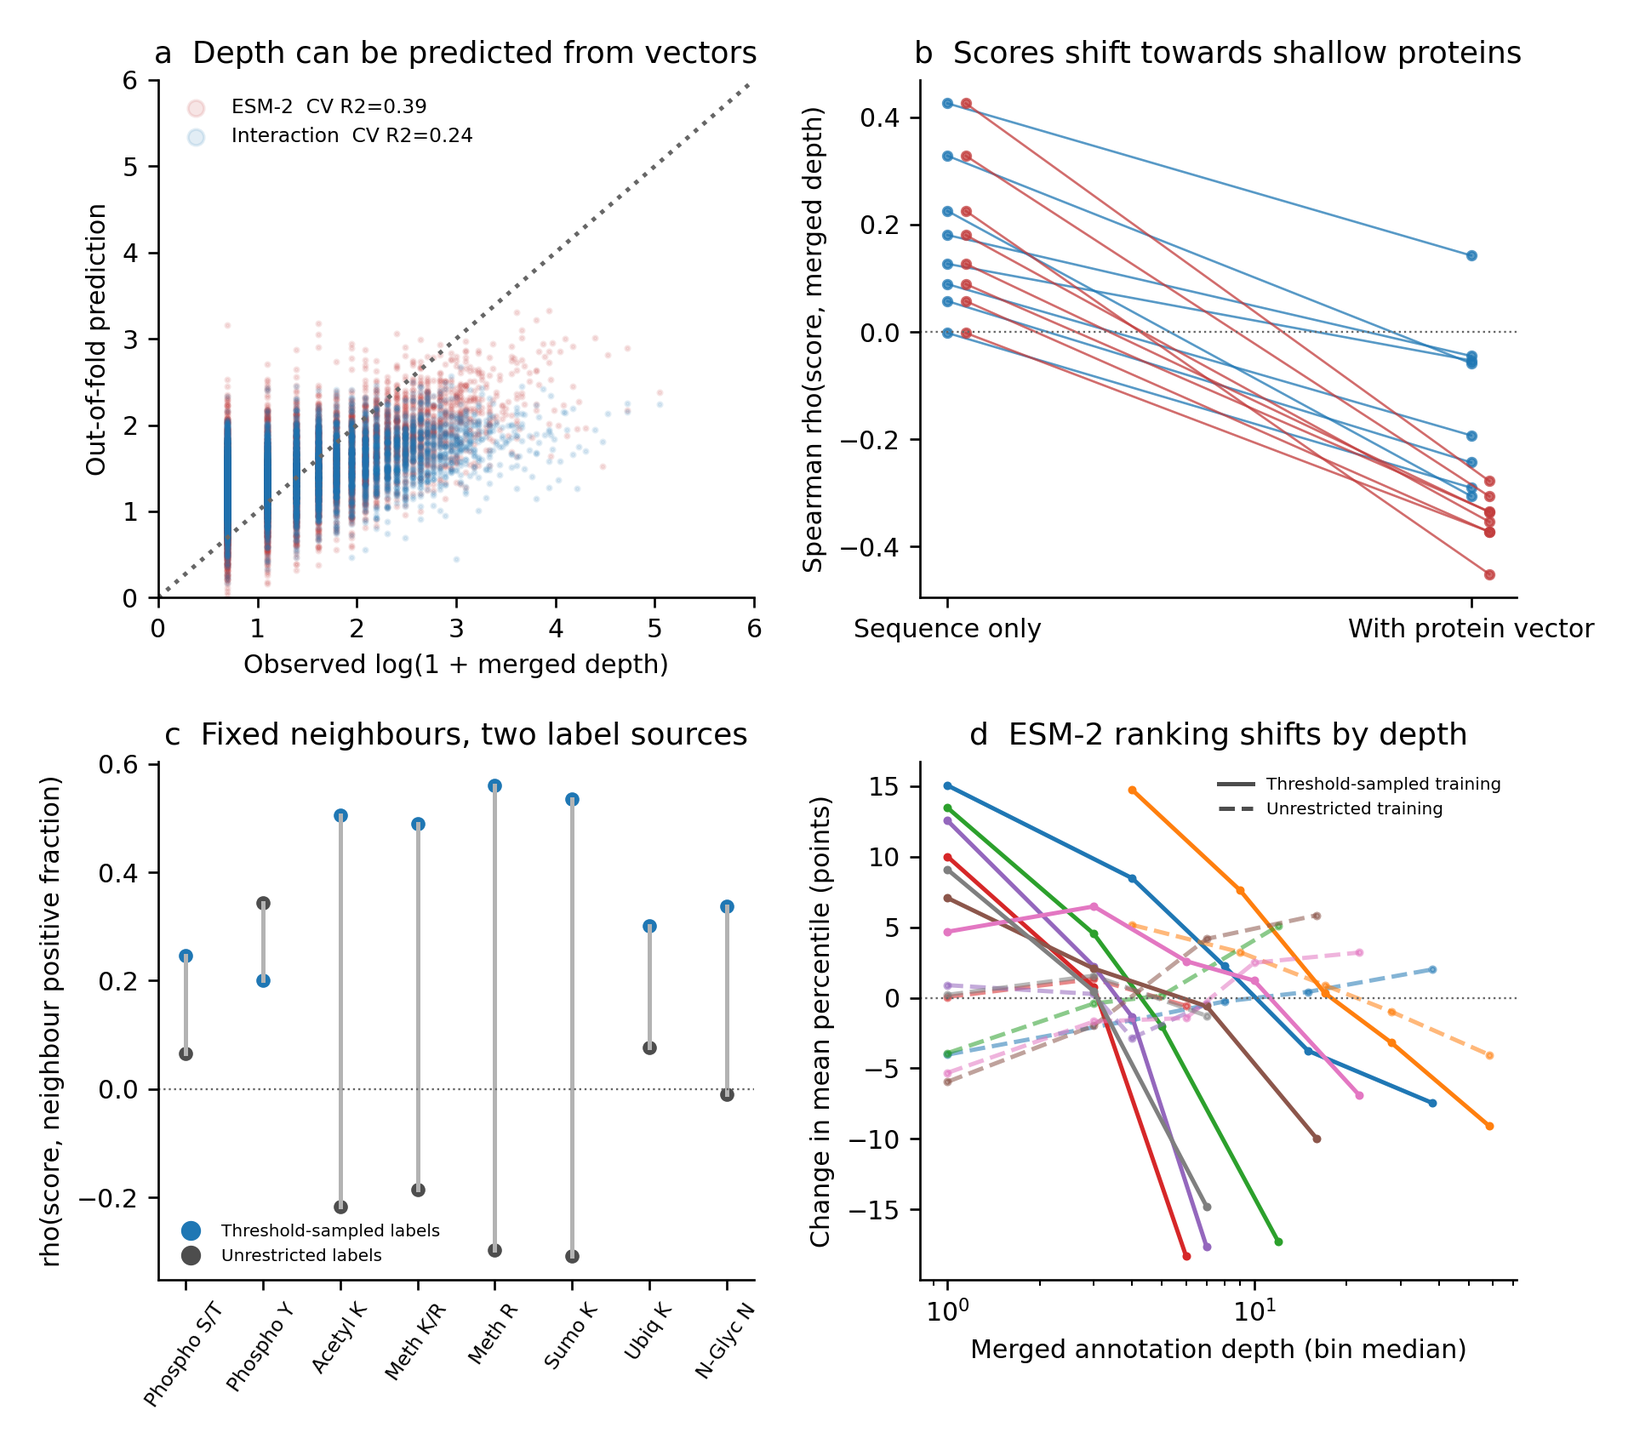
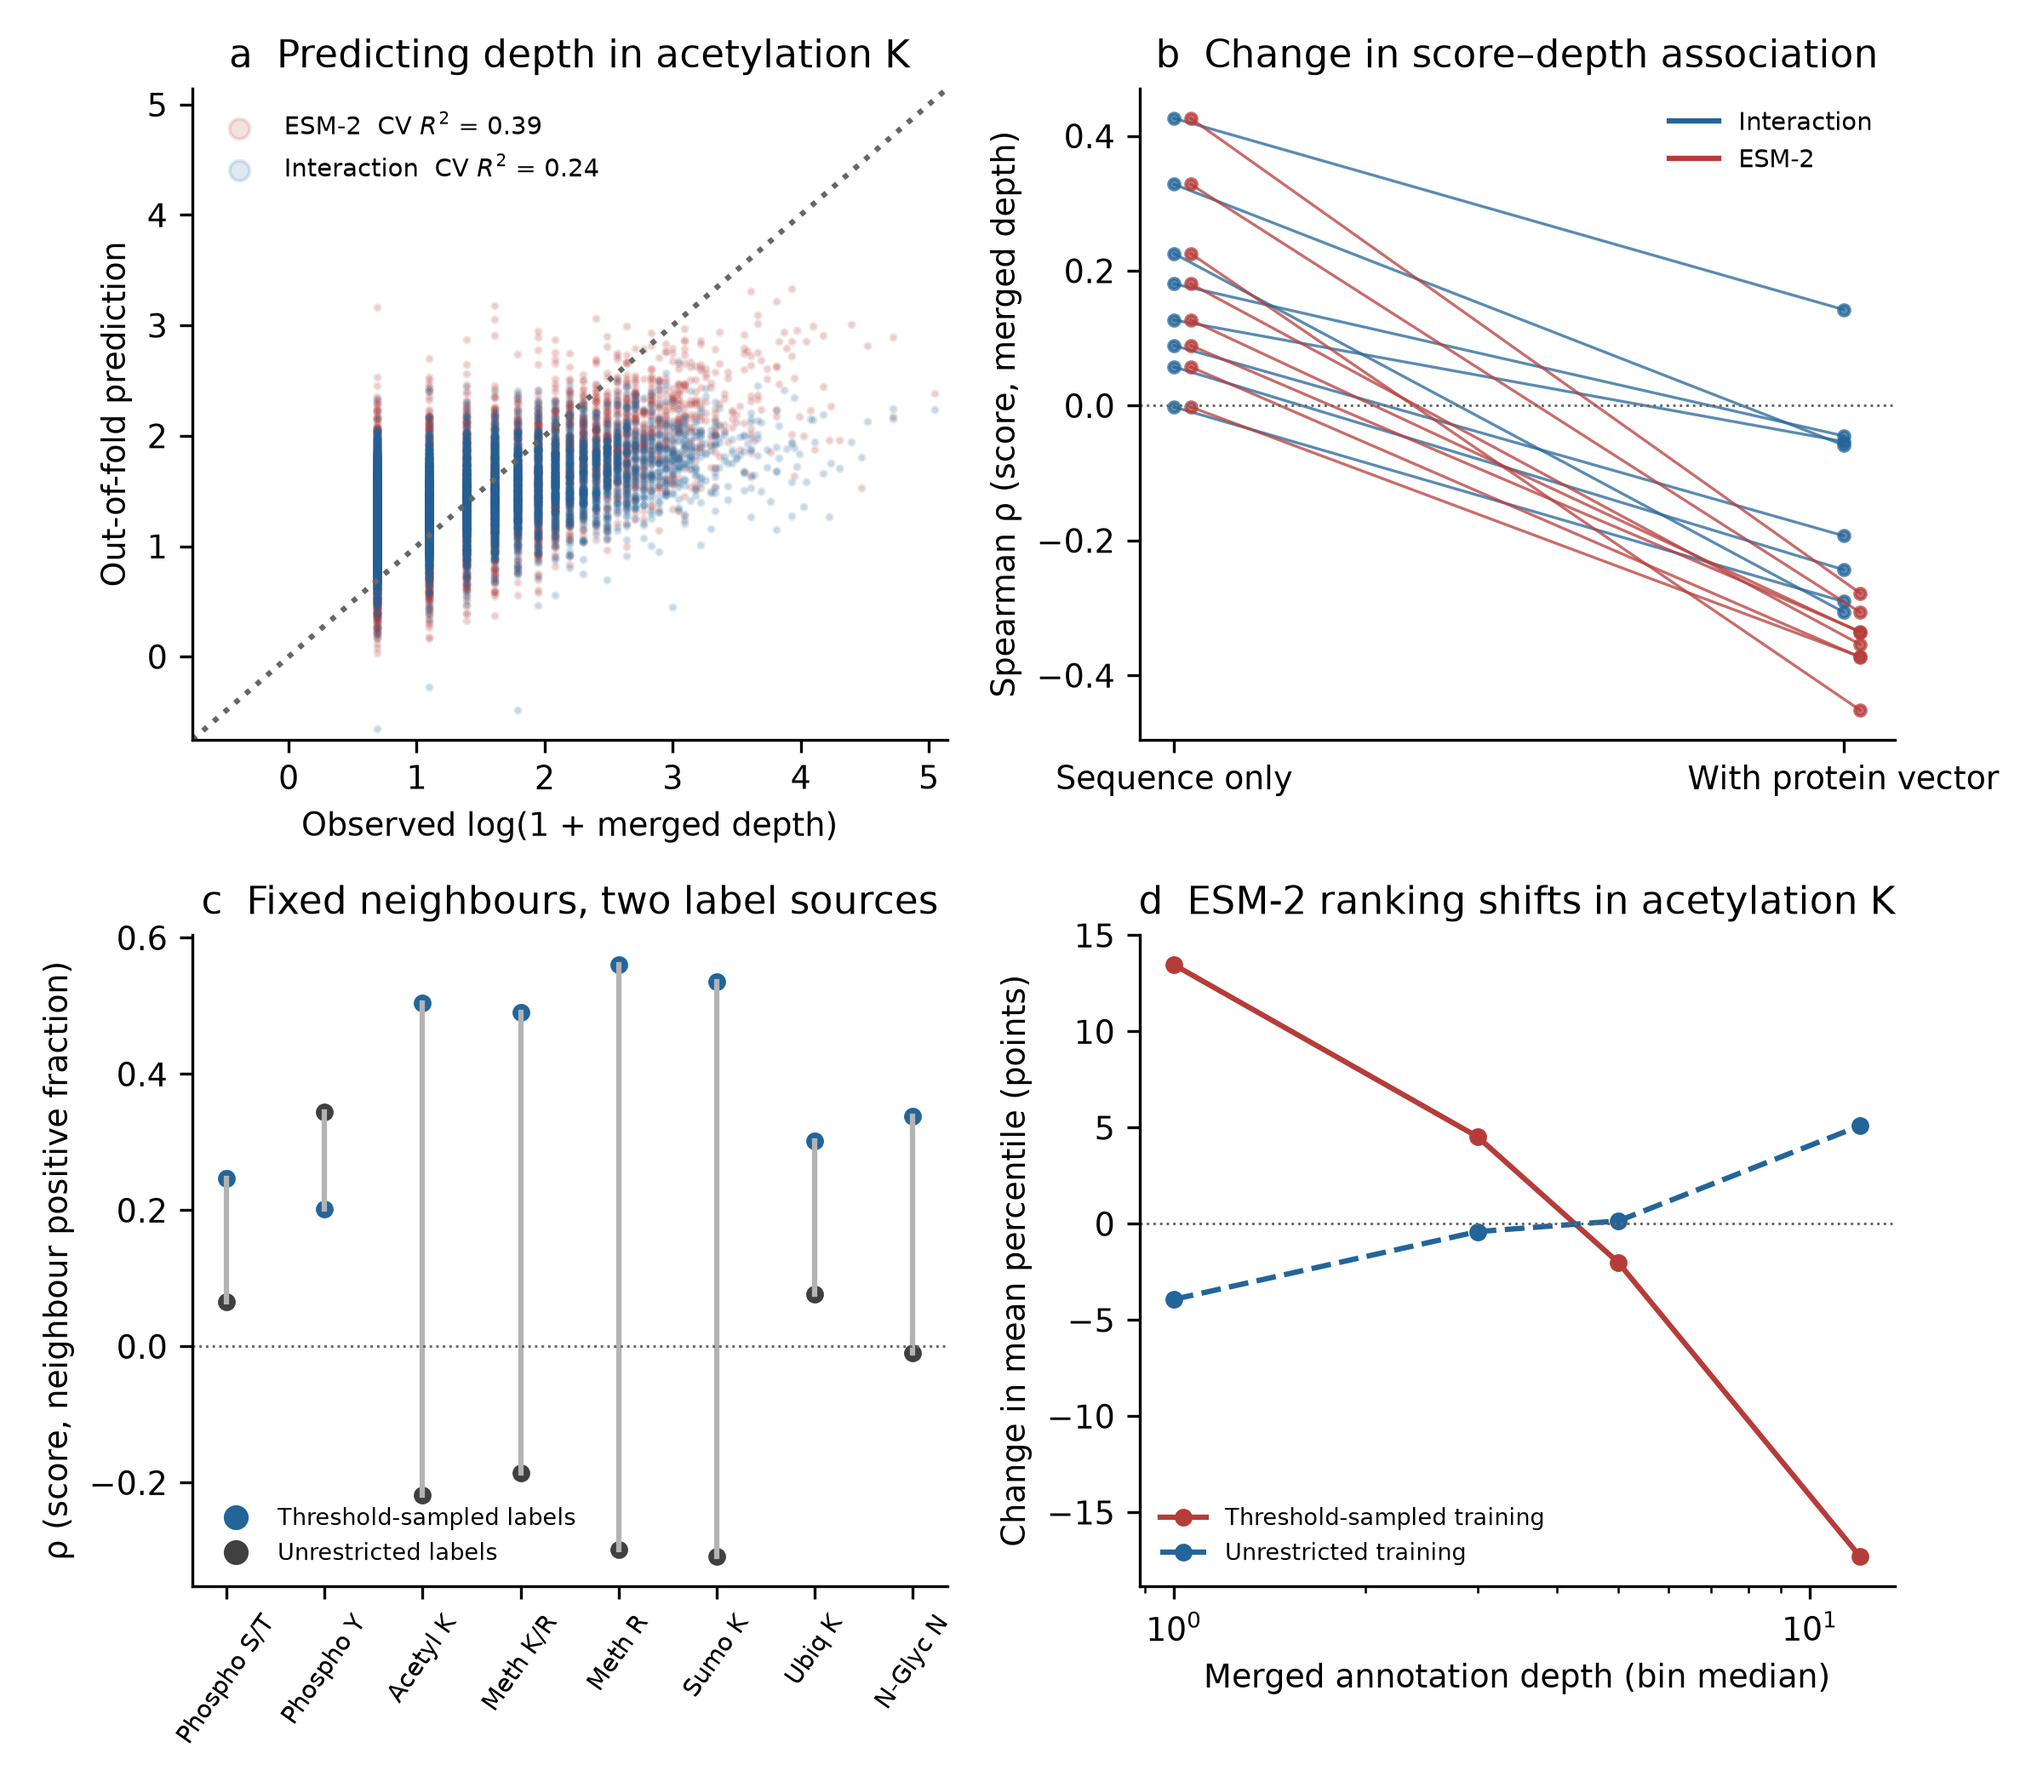
Add plot_corrected.py and the manuscript versions of Figure 2 and S4
plot_corrected.py redrew Figure 2 and Supplementary Figure S4 for the
manuscript from tables written by section3_corrected.py. The two PNGs in
results/section3_20260920/ are replaced by those redrawn versions, which are
the ones in the manuscript; the earlier renderings remain in 13b1817. The
script is committed as run; README notes the paths it assumes.

diff --git a/analysis/plot_corrected.py b/analysis/plot_corrected.py
@@ -1,0 +1,75 @@
+from pathlib import Path
+import sys
+sys.path.insert(0,str(Path(__file__).resolve().parents[1]/'render_deps'))
+import numpy as np
+import pandas as pd
+import matplotlib
+matplotlib.use('Agg')
+import matplotlib.pyplot as plt
+from matplotlib.lines import Line2D
+
+P=Path(__file__).resolve().parents[1]/'results'
+TASKS=['phosphorylation_st','phosphorylation_y','acetylation_k','methylation_k','methylation_r','sumoylation_k','ubiquitination_k','glycosylation_n']
+SHORT=['Phospho S/T','Phospho Y','Acetyl K','Meth K/R','Meth R','Sumo K','Ubiq K','N-Glyc N']
+colors={'ppi':'#23659a','esm':'#b63c39'}
+labels={'ppi':'Interaction','esm':'ESM-2'}
+plt.rcParams.update({'font.size':9,'axes.spines.top':False,'axes.spines.right':False,'savefig.facecolor':'white'})
+fig,axes=plt.subplots(2,2,figsize=(8,7.0))
+ridge=pd.read_csv(P/'ridge_acetylation_oof.tsv',sep='\t')
+rr=pd.read_csv(P/'ridge_summary.tsv',sep='\t')
+for fam,g in ridge.groupby('family'):
+    r=rr.query('group == "acet" and family == @fam').raw_r2.iloc[0]
+    axes[0,0].scatter(g.observed,g.predicted,s=2,alpha=.15,color=colors[fam],label=f'{labels[fam]}  CV $R^2$ = {r:.2f}')
+lo=min(0,float(ridge.predicted.min())-.1)
+hi=max(float(ridge.observed.max()),float(ridge.predicted.max()))+.1
+axes[0,0].plot([lo,hi],[lo,hi],':',color='.4')
+axes[0,0].set(xlim=(lo,hi),ylim=(lo,hi),xlabel='Observed log(1 + merged depth)',ylabel='Out-of-fold prediction',title='a  Predicting depth in acetylation K')
+axes[0,0].legend(fontsize=7,markerscale=4,frameon=False)
+sd=pd.read_csv(P/'score_depth_summary.tsv',sep='\t')
+for i,fam in enumerate(('ppi','esm')):
+    for _,r in sd.query('family == @fam').iterrows():
+        axes[0,1].plot([0+i*.025,1+i*.025],[r.baseline,r.augmented],'-o',color=colors[fam],alpha=.75,ms=3,lw=.8)
+axes[0,1].axhline(0,color='.4',ls=':',lw=.7)
+axes[0,1].set(xticks=[0,1],xticklabels=['Sequence only','With protein vector'],ylabel='Spearman ρ (score, merged depth)',title='b  Change in score–depth association')
+axes[0,1].legend(handles=[Line2D([],[],color=colors[f],label=labels[f]) for f in ('ppi','esm')],frameon=False,fontsize=7)
+knn=pd.read_csv(P/'knn_summary.tsv',sep='\t').query('family == "ppi"').set_index('task')
+for i,t in enumerate(TASKS):
+    r=knn.loc[t]
+    axes[1,0].plot([i,i],[r.augmented_replica,r.augmented_rebuilt],color='.7')
+    axes[1,0].scatter(i,r.augmented_replica,color=colors['ppi'],s=16)
+    axes[1,0].scatter(i,r.augmented_rebuilt,color='.25',s=16)
+axes[1,0].axhline(0,color='.4',ls=':',lw=.7)
+axes[1,0].set(xticks=range(8),xticklabels=SHORT,ylabel='ρ (score, neighbour positive fraction)',title='c  Fixed neighbours, two label sources')
+axes[1,0].tick_params(axis='x',labelrotation=55,labelsize=7)
+axes[1,0].legend(handles=[Line2D([],[],ls='',marker='o',color=colors['ppi'],label='Threshold-sampled labels'),Line2D([],[],ls='',marker='o',color='.25',label='Unrestricted labels')],frameon=False,fontsize=6.5,loc='lower left')
+dep=pd.read_csv(P/'depth_plot_splits.tsv',sep='\t').query('family == "esm" and task == "acetylation_k"')
+for tr,ls,col,lab in [('replica','-',colors['esm'],'Threshold-sampled training'),('rebuilt','--',colors['ppi'],'Unrestricted training')]:
+    g=dep.query('train == @tr').groupby('depth_bin')[['depth_median','d_pct']].mean()
+    axes[1,1].plot(g.depth_median,g.d_pct*100,ls=ls,marker='o',ms=4,color=col,label=lab)
+axes[1,1].axhline(0,color='.4',ls=':',lw=.7)
+axes[1,1].set(xscale='log',xlabel='Merged annotation depth (bin median)',ylabel='Change in mean percentile (points)',title='d  ESM-2 ranking shifts in acetylation K')
+axes[1,1].legend(frameon=False,fontsize=6.5,loc='lower left')
+fig.tight_layout(pad=1.2)
+fig.savefig(P/'figure2_corrected.png',dpi=300)
+plt.close(fig)
+
+data=pd.read_csv(P/'depth_by_size_splits.tsv',sep='\t').query('family == "esm"')
+agg=data.groupby(['task','train','depth_bin','size_bin']).d_pct.mean()*100
+lim=np.ceil(agg.abs().max()/5)*5
+fig,axs=plt.subplots(4,4,figsize=(7.8,7.6))
+for i,(t,name) in enumerate(zip(TASKS,SHORT)):
+    for j,(tr,title) in enumerate([('replica','Threshold-trained'),('rebuilt','Unrestricted-trained')]):
+        ax=axs[i//2,(i%2)*2+j]
+        g=agg.loc[t,tr].unstack()
+        im=ax.imshow(g,aspect='auto',vmin=-lim,vmax=lim,cmap='RdBu_r')
+        ax.set_title(name+'\n'+title,fontsize=8,pad=4)
+        ax.set_yticks(range(len(g)),labels=range(1,len(g)+1),fontsize=7)
+        ax.set_xticks(range(len(g.columns)),labels=range(1,len(g.columns)+1),fontsize=7)
+        if j==0: ax.set_ylabel('Depth bin',fontsize=8)
+        if i//2==3: ax.set_xlabel('Candidate-count bin',fontsize=8)
+fig.subplots_adjust(left=.075,right=.985,bottom=.13,top=.945,wspace=.36,hspace=.52)
+cax=fig.add_axes([.28,.047,.46,.019])
+fig.colorbar(im,cax=cax,orientation='horizontal',label='Change in mean percentile (points)')
+fig.savefig(P/'figureS4_corrected.png',dpi=300,bbox_inches='tight',pad_inches=.12)
+plt.close(fig)
+print('Figures rebuilt. Full heatmap range:',float(agg.min()),float(agg.max()))

diff --git a/README.md b/README.md
@@ -505,3 +505,22 @@ run, writing to `section3_revision_20260920/fn_shards/shard00` to `shard11`.
 shard outputs under `/home/FCAM/juli/HRP/section3_revision_20260920/`, and
 writes to `/home/FCAM/juli/HRP/section3_revision_20260920/results/`. Change
 `root` at the top of that script to run it elsewhere.
+
+Figure 2 and Supplementary Figure S4 as they appear in the manuscript were
+redrawn by `analysis/plot_corrected.py` from six of the tables that
+`section3_corrected.py` writes (`ridge_acetylation_oof.tsv`,
+`ridge_summary.tsv`, `score_depth_summary.tsv`, `knn_summary.tsv`,
+`depth_plot_splits.tsv`, `depth_by_size_splits.tsv`). The two PNGs in
+`results/section3_20260920/` are those redrawn figures; the earlier renderings
+written by `section3_corrected.py` itself are in commit `13b1817`, and rerunning
+that script writes the earlier layout again.
+
+`plot_corrected.py` is committed as it was run, from a separate working folder
+on a laptop. It reads its tables from, and writes the two PNGs to, the folder
+`results/` one level above the script (`P` near the top of the script); inside
+this repository that would be the top-level `results/`, so set `P` to
+`results/section3_20260920` to run it here. It also puts a folder `render_deps`,
+one level above the script, at the front of `sys.path`; that folder held a local
+copy of matplotlib and is not needed where matplotlib is installed. With the
+committed tables and matplotlib 3.11, the script reproduces both PNGs pixel for
+pixel.
